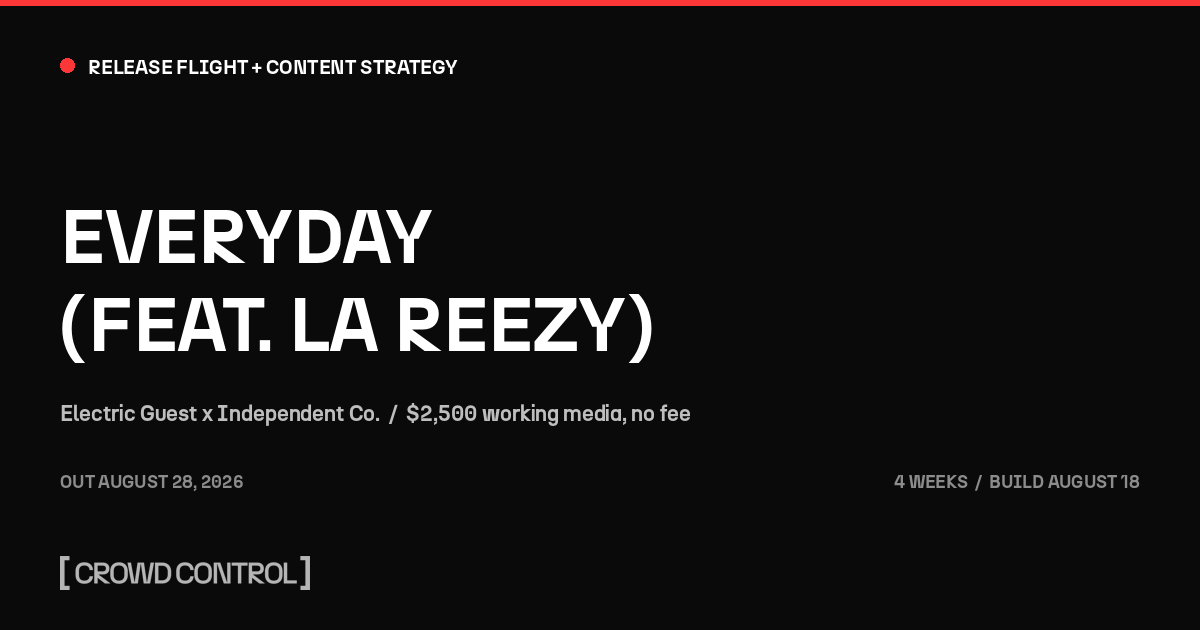
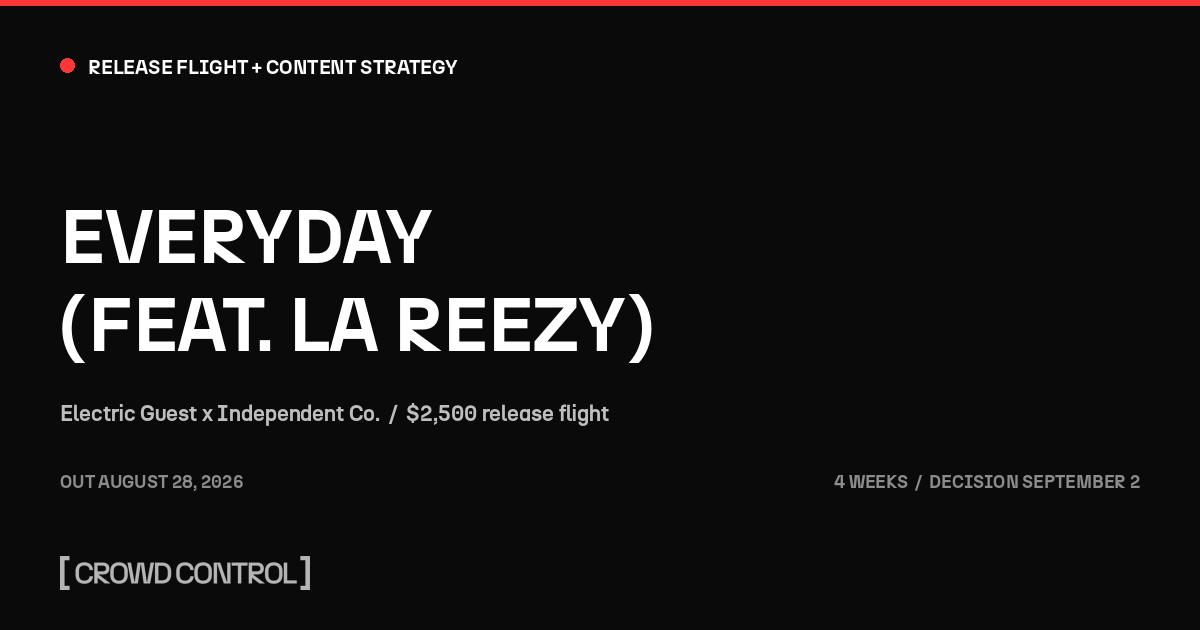
Electric Guest Everyday: budget approved. Status to Approved, drop Lean option and dial, remove fee messaging, four next steps, refresh OG

Changed region(s): [[0.6783, 0.754, 0.9558, 0.7841], [0.4008, 0.6333, 0.5858, 0.6937]]

diff --git a/src/lib/projects/electric-guest-everyday.ts b/src/lib/projects/electric-guest-everyday.ts
@@ -21,12 +21,12 @@ export const electricGuestEveryday: ProjectData = {
   project: {
     name: "EVERYDAY (FEAT. LA REEZY)",
     tagline:
-      "A $2,500 release flight for Electric Guest's \"Everyday\" featuring La Reezy, out August 28. Every dollar is working media with no Crowd Control fee. The goal is a clean, funded answer to one question: do hip-hop-adjacent audiences convert for Electric Guest, and at what cost.",
+      "A $2,500 release flight for Electric Guest's \"Everyday\" featuring La Reezy, out August 28. Four channels, one funded head-to-head, and one question answered by September 2: do hip-hop-adjacent audiences convert for Electric Guest, and at what cost.",
     type: "Release Flight + Content Strategy",
     startDate: "August 18, 2026",
     endDate: "September 12, 2026",
     duration: "4 Weeks",
-    status: "Awaiting Approval" as const,
+    status: "Approved" as const,
   },
 
   overview: {
@@ -81,18 +81,15 @@ export const electricGuestEveryday: ProjectData = {
     layout: "ledger",
     heading: "The Media Flight",
     subheading:
-      "Every dollar is working media and Crowd Control takes no fee. Four channels, one funded head-to-head, and a hard decision point on September 2 that moves the reserve into whatever is winning.",
-    goal: { views: "$2,500", window: "4 Weeks", blendedCpv: "$0", totalBudget: "Sept 2" },
+      "Four channels, one funded head-to-head, and a hard decision point on September 2 that moves the reserve into whatever is winning.",
+    goal: { views: "$2,500", window: "4 Weeks", blendedCpv: "Aug 28", totalBudget: "Sept 2" },
     goalLabels: {
       views: "Working Media",
       window: "Flight Window",
-      blendedCpv: "Crowd Control Fee",
+      blendedCpv: "Release Day",
       totalBudget: "Decision Point",
     },
     cpvRowLabel: "Planning Cost",
-    dialUnit: "",
-    dialSubheading:
-      "What each budget level actually buys. The recommendation is the level where the crossover read is trustworthy.",
     tracks: [
       {
         key: "Meta / Cell A. Electric Guest Pool",
@@ -175,25 +172,7 @@ export const electricGuestEveryday: ProjectData = {
           "Deliberately unspent until the September 2 read. Committing the action in advance, and holding money back to fund it, is what keeps a test from turning into a story told after the fact.",
       },
     ],
-    dial: [
-      {
-        label: "Lean",
-        budget: "$1,500",
-        views: "A directional read",
-        split: "$800 Meta / $450 YouTube / $250 Spotify",
-        note:
-          "Both Meta cells drop to $400, which is under the threshold where a cold-audience read can be trusted. TikTok comes out entirely. Cheaper, and the answer gets considerably softer.",
-      },
-      {
-        label: "As Scoped",
-        budget: "$2,500",
-        views: "The clean read",
-        split: "$1,200 Meta / $600 YouTube / $300 TikTok / $250 Spotify / $150 held",
-        note:
-          "Enough to answer the crossover question with confidence and keep the catalog warm alongside it. It will not create a moment on its own, and this plan does not claim otherwise.",
-        featured: true,
-      },
-    ],
+    dial: [],
     exclusions: [
       "Canada excluded. Tested this cycle, ate spend, produced no streaming lift.",
       "Mexico excluded. Dedicated breakout campaign killed in June on CTR cost.",
@@ -222,7 +201,7 @@ export const electricGuestEveryday: ProjectData = {
     sectionNumber: "03",
     model: "project" as const,
     investmentSubheading:
-      "There is no Crowd Control fee on this flight. The full $2,500 is working media and DSP placement, billed to the platforms.",
+      "The full $2,500 is working media and DSP placement, billed to the platforms.",
     currency: "USD",
     lineItems: [
       {
@@ -263,14 +242,14 @@ export const electricGuestEveryday: ProjectData = {
     totalLabel: "Total Working Media",
     paymentSchedule: [
       {
-        milestone: "Full media budget on approval",
+        milestone: "Full media budget",
         percentage: 100,
         amount: 2500,
-        due: "Before the August 26 launch",
+        due: "Billed ahead of the August 26 launch",
       },
     ],
     paymentTerms:
-      "Billed to the platforms and DSP tools directly. No Crowd Control management fee applies to this flight.",
+      "Billed to the platforms and DSP tools directly.",
     paymentLink: "#",
   },
 
@@ -278,30 +257,24 @@ export const electricGuestEveryday: ProjectData = {
   nextSteps: [
     {
       step: 1,
-      title: "Approve the flight",
-      description:
-        "Sign off on the $2,500 split so campaigns can be built the week of August 18 and live by August 26.",
-    },
-    {
-      step: 2,
       title: "Confirm the assets",
       description:
         "Static art alone is a complete plan. Stills of the two artists together, or anything either of them shoots on a phone, is upside we will put to work. Tell us what will exist by August 26.",
     },
     {
-      step: 3,
+      step: 2,
       title: "Lock the La Reezy side",
       description:
         "Cross-posting agreement, tagging, and whatever assets his team can share. His accounts are free reach into the audience we are otherwise paying to reach.",
     },
     {
-      step: 4,
+      step: 3,
       title: "Confirm platform access",
       description:
         "Meta and Spotify for Artists access on the Electric Guest side, so the pixel pool and follower data are live before build starts.",
     },
     {
-      step: 5,
+      step: 4,
       title: "Hold September 2",
       description:
         "Thirty minutes on the read. The decision on which cell survives is already committed, so the call is about what the result means for the fall.",
@@ -311,7 +284,7 @@ export const electricGuestEveryday: ProjectData = {
   cta: {
     headline: "From Approval to September 2",
     body:
-      "Electric Guest has spent twelve weeks proving 10K works on its own audience. \"Everyday\" is the first real chance to find out whether it works on somebody else's. Approve the flight and there will be an answer by September 2.",
+      "Electric Guest has spent twelve weeks proving 10K works on its own audience. \"Everyday\" is the first real chance to find out whether it works on somebody else's. Build starts the week of August 18 and there will be an answer by September 2.",
     email: "geoff@crowdcontroldigital.com",
   },
 

diff --git a/src/components/MediaFlight.tsx b/src/components/MediaFlight.tsx
@@ -105,6 +105,8 @@ export function MediaFlight() {
           </ScrollReveal>
 
           {/* Budget dial */}
+          {mf.dial.length > 0 && (
+          <>
           <ScrollReveal>
             <div className="mt-20 mb-8">
               <span className="text-[10px] font-mono tracking-[0.2em] text-text-muted uppercase">Budget Dial</span>
@@ -136,6 +138,8 @@ export function MediaFlight() {
               </StaggerItem>
             ))}
           </StaggerContainer>
+          </>
+          )}
 
           {/* Quality controls */}
           <ScrollReveal>

diff --git a/src/lib/project-context.tsx b/src/lib/project-context.tsx
@@ -42,7 +42,7 @@ export type ProjectData = {
     startDate: string;
     endDate: string;
     duration: string;
-    status: "Awaiting Approval";
+    status: "Awaiting Approval" | "Approved";
   };
   overview: {
     summary: string;
